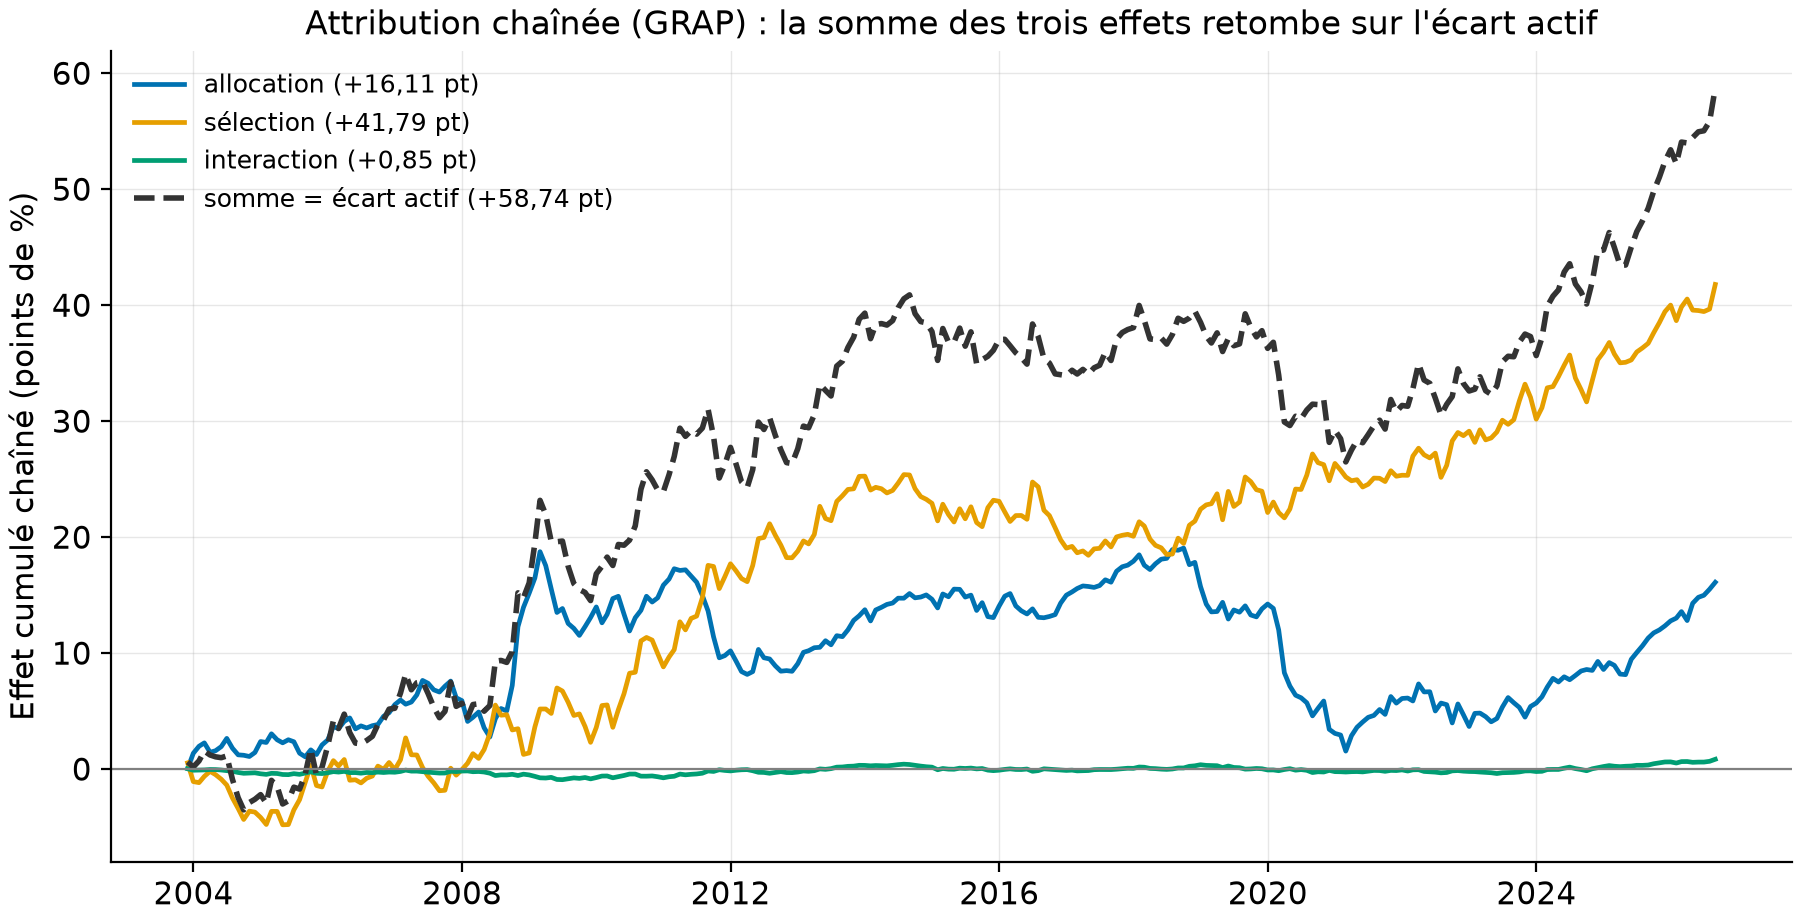
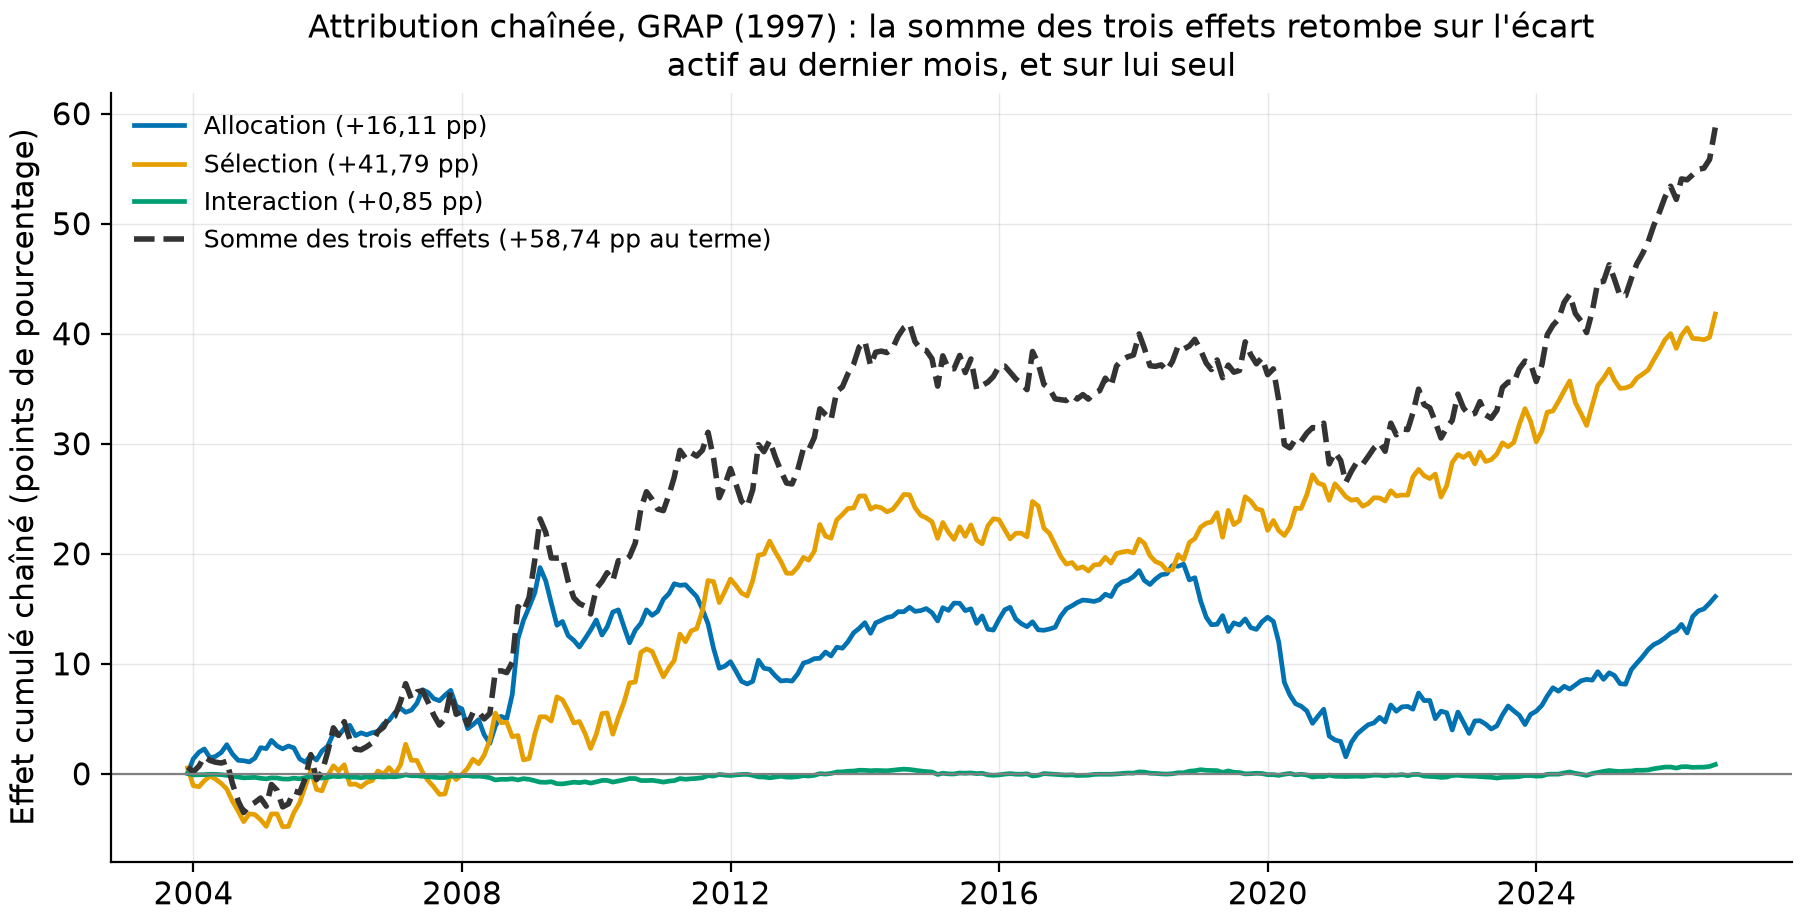
Audit : la figure des quatre chaînages ne montrait rien
Les niveaux montent à 42 points et les écarts à mesurer valent 0,83 point : la figure
trace maintenant l'écart à la moyenne des quatre méthodes, en points de base. L'identité
GRAP = Frongello, le résultat le plus fort du dépôt, y devient visible, et Menchero
apparaît comme la seule méthode qui s'écarte (+55 pb sur l'allocation, -53 sur la
sélection). La légende exposait les clés internes du dictionnaire : chaque chaînage porte
le nom de son auteur et son année.

La somme des trois effets n'égale l'écart actif QU'AU DERNIER MOIS, le coefficient GRAP
du mois i contenant les rendements postérieurs à i : le titre et la légende le disent.
Unités : « points de 100 $ » n'existe pas, « points de % » non plus.

Changed region(s): [[0.0, 0.1217, 0.9956, 0.913], [0.0, 0.0, 0.9022, 0.3957], [0.0, 0.4261, 0.0622, 0.7913]]

diff --git a/src/perf/figures.py b/src/perf/figures.py
@@ -10,6 +10,12 @@ import pandas as pd
 
 OKABE_ITO = ["#0072B2", "#E69F00", "#009E73", "#D55E00", "#CC79A7", "#56B4E9", "#F0E442", "#000000"]
 
+# les clés internes des colonnes ne sont pas des libellés de lecture : chaque chaînage porte le nom
+# de son auteur et l'année de sa publication, comme dans la bibliographie du README
+LABELS_FR = {"allocation": "Allocation", "selection": "Sélection", "interaction": "Interaction"}
+NOMS_CHAINAGES = {"carino": "Cariño (1999)", "menchero": "Menchero (2000)",
+                  "grap": "GRAP (1997)", "frongello": "Frongello (2002)"}
+
 
 def use_style():
     import matplotlib as mpl
@@ -36,14 +42,14 @@ def fig_active(monthly: pd.DataFrame, dest: Path) -> None:
             label=f"Portefeuille tactique ({wp.iloc[-1]:,.0f} $)".replace(",", " "))
     ax.plot(wb.index, wb, color=OKABE_ITO[1],
             label=f"Politique 65/35 ({wb.iloc[-1]:,.0f} $)".replace(",", " "))
-    ax.set_ylabel("Valeur de 100 $")
+    ax.set_ylabel("Valeur (dollars, base 100 au départ)")
     ax.yaxis.set_major_formatter(fr)
     ax.legend(fontsize=9, loc="upper left")
     ax.set_title("Le portefeuille tactique et sa politique : l'écart entre les deux est la matière à attribuer")
-    actif = wp - wb                          # en points de 100 $ : la cible de l'attribution
+    actif = wp - wb                          # deux valeurs en dollars : leur écart l'est aussi
     ax2.plot(actif.index, actif, color=OKABE_ITO[2])
     ax2.axhline(0, color="0.4", linewidth=0.8)
-    ax2.set_ylabel("Écart actif cumulé (points de 100 $)", fontsize=9.5)
+    ax2.set_ylabel("Écart actif cumulé (dollars)", fontsize=9.5)
     ax2.yaxis.set_major_formatter(fr)
     fig.savefig(dest)
     plt.close(fig)
@@ -55,22 +61,21 @@ def fig_linked(linked: pd.DataFrame, actif_cumule: float, methode: str, dest: Pa
     fig, ax = plt.subplots(figsize=(9, 4.6))
     cum = linked[["allocation", "selection", "interaction"]].cumsum() * 100
     for col, color in zip(["allocation", "selection", "interaction"], OKABE_ITO, strict=False):
-        nom = {"selection": "sélection"}.get(col, col)
         ax.plot(cum.index, cum[col], color=color,
-                label=f"{nom} ({cum[col].iloc[-1]:+.2f} pt)".replace(".", ","))
+                label=f"{LABELS_FR[col]} ({cum[col].iloc[-1]:+.2f} pp)".replace(".", ","))
     total = cum.sum(axis=1)
+    # la somme n'égale l'écart actif qu'AU DERNIER POINT : le coefficient GRAP du mois i contient
+    # les rendements du portefeuille et du repère POSTÉRIEURS à i, donc une somme partielle n'est
+    # pas l'attribution arrêtée à cette date
     ax.plot(total.index, total, color="0.2", linewidth=2.0, linestyle="--",
-            label=f"somme = écart actif ({actif_cumule * 100:+.2f} pt)".replace(".", ","))
+            label=f"Somme des trois effets ({actif_cumule * 100:+.2f} pp au terme)".replace(".", ","))
     ax.axhline(0, color="0.5", linewidth=0.8)
-    ax.set_ylabel("Effet cumulé chaîné (points de %)")
+    ax.set_ylabel("Effet cumulé chaîné (points de pourcentage)")
     ax.yaxis.set_major_formatter(fr)
     ax.legend(fontsize=9, loc="best")
-    ax.set_title(f"Attribution chaînée ({methode}) : la somme des trois effets retombe sur l'écart actif")
+    ax.set_title(f"Attribution chaînée, {methode} : la somme des trois effets retombe sur l'écart\nactif au dernier mois, et sur lui seul", fontsize=11.5)
     fig.savefig(dest)
     plt.close(fig)
-
-
-LABELS_FR = {"allocation": "allocation", "selection": "sélection", "interaction": "interaction"}
 
 
 def fig_methods(totaux: pd.DataFrame, actif_cumule: float, dest: Path) -> None:
@@ -79,17 +84,23 @@ def fig_methods(totaux: pd.DataFrame, actif_cumule: float, dest: Path) -> None:
     fig, ax = plt.subplots(figsize=(8.8, 4.4))
     x = np.arange(len(totaux.index))
     width = 0.19
+    # les NIVEAUX (jusqu'à 41,8 points) écrasaient les écarts à mesurer (0,83 point au plus) :
+    # la figure trace donc l'écart de chaque méthode à la moyenne des quatre, en points de base.
+    # Les niveaux restent dans la table du README, où ils sont à leur place.
+    ecart_pb = (totaux.sub(totaux.mean(axis=1), axis=0)) * 1e4
     for i, m in enumerate(totaux.columns):
-        ax.bar(x + (i - 1.5) * width, totaux[m] * 100, width, label=m,
-               color=OKABE_ITO[i])
+        ax.bar(x + (i - 1.5) * width, ecart_pb[m], width,
+               label=NOMS_CHAINAGES.get(m, m), color=OKABE_ITO[i])
     ax.set_xticks(x)
     ax.set_xticklabels([LABELS_FR.get(i_, i_) for i_ in totaux.index])
+    ax.set_xlabel("Effet de Brinson-Fachler")
     ax.axhline(0, color="0.3", linewidth=0.9)
-    ax.set_ylabel("Effet total chaîné (points de %)")
+    ax.set_ylabel("Écart à la moyenne des quatre méthodes\n(points de base)", fontsize=10)
     ax.yaxis.set_major_formatter(fr)
     ax.legend(fontsize=9)
-    spread = float(((totaux.max(axis=1) - totaux.min(axis=1)) * 100).max())
-    ax.set_title(f"Quatre chaînages, une histoire : au plus {spread:.2f} point d'écart "
-                 f"sur un actif cumulé de {actif_cumule * 100:.1f}".replace(".", ","))
+    spread_pb = float(((totaux.max(axis=1) - totaux.min(axis=1)) * 1e4).max())
+    ax.set_title(f"Quatre chaînages, un même verdict : au plus {spread_pb:.0f} points de base d'écart "
+                 f"entre méthodes\nsur un écart actif cumulé de {actif_cumule * 1e4:.0f} points de "
+                 f"base ; GRAP et Frongello se superposent exactement".replace(".", ","), fontsize=11)
     fig.savefig(dest)
     plt.close(fig)

diff --git a/src/perf/cli.py b/src/perf/cli.py
@@ -57,12 +57,12 @@ def attribute(out: Path = Path("results")) -> None:
     spread.round(2).to_csv(tables / "ecart_entre_methodes_pb.csv")
 
     figures.fig_active(monthly, figs / "actif.png")
-    figures.fig_linked(linked["grap"], actif_cum, "GRAP", figs / "attribution_chainee.png")
+    figures.fig_linked(linked["grap"], actif_cum, figures.NOMS_CHAINAGES["grap"], figs / "attribution_chainee.png")
     figures.fig_methods(totaux, actif_cum, figs / "quatre_methodes.png")
 
     typer.echo(f"{len(monthly)} mois ; écart actif cumulé {actif_cum * 100:+.2f} pt ; "
                f"résidu max de réconciliation {max(abs(v) for v in residus.values()):.2e}")
-    typer.echo("totaux chaînés (pt) :")
+    typer.echo("totaux chaînés (points de pourcentage) :")
     typer.echo((totaux * 100).round(3).to_string())
     typer.echo(f"écart max entre méthodes : {float(spread.max()):.1f} pb "
                f"({spread.idxmax()})")

diff --git a/README.md b/README.md
@@ -8,7 +8,7 @@ rendements du GIPS sur l'exemple chiffré officiel du Handbook. *English summary
 ## En bref
 
 1. **Les quatre chaînages racontent la même histoire.** Sur 274 mois d'un portefeuille
-   tactique contre sa politique (+58,74 points d'écart actif cumulé), Cariño, Menchero,
+   tactique contre sa politique (+58,74 points de pourcentage d'écart actif cumulé), Cariño, Menchero,
    GRAP et Frongello attribuent l'allocation entre +16,11 et +16,93 points et la sélection
    entre +41,01 et +41,79 : au plus 0,83 point d'écart entre méthodes, soit 1,4 % du total
    à expliquer. Le choix de la méthode est un choix de présentation, pas de verdict.
@@ -71,7 +71,7 @@ GRAP (1997) capitalise le passé au portefeuille et le futur au benchmark ; Fron
 (2002) par une récursion qui porte l'histoire des effets déjà ajustés. Les formules sont
 recoupées contre l'implémentation de référence R-Finance/PortfolioAttribution (MIT).
 
-| Effet total chaîné (pt) | Cariño | Menchero | GRAP | Frongello |
+| Effet total chaîné (points de pourcentage) | Cariño | Menchero | GRAP | Frongello |
 |---|---|---|---|---|
 | Allocation | +16,38 | +16,93 | +16,11 | +16,11 |
 | Sélection | +41,58 | +41,01 | +41,79 | +41,79 |
@@ -93,9 +93,15 @@ réconcilie (testé).
 
 ![Quatre méthodes](results/figures/quatre_methodes.png)
 
-**Comment lire cette figure.** Une barre par méthode et par effet. Si les quatre barres
-d'un groupe avaient des hauteurs visiblement différentes, le choix de la méthode
-changerait le message au comité ; elles sont presque confondues.
+**Comment lire cette figure.** Une barre par méthode et par effet, non pas en niveau mais
+en ÉCART À LA MOYENNE des quatre méthodes, en points de base. Les niveaux, de 16 à 42
+points de pourcentage, écrasaient des différences qui valent au plus 83 points de base :
+tracés en écart, ils deviennent lisibles, et deux faits sautent aux yeux. Les barres GRAP
+et Frongello sont rigoureusement identiques, ce qui est l'identité redémontrée plus haut ;
+Menchero est la seule méthode qui s'écarte, de +55 points de base sur l'allocation et de
+-53 sur la sélection, l'un compensant l'autre puisque les totaux sont contraints. Sur un
+écart actif cumulé de 5 874 points de base, le choix de la méthode ne change donc pas le
+message au comité.
 
 ![Attribution chaînée](results/figures/attribution_chainee.png)
 
@@ -103,7 +109,11 @@ changerait le message au comité ; elles sont presque confondues.
 sélection (jaune) fait le gros du travail et accélère après 2020 ; l'allocation (bleu)
 donne et reprend (elle perd 17 points entre 2018 et 2021 : surpondérer la classe
 momentum a coûté cher dans les retournements) ; l'interaction reste marginale. La somme
-(tirets) retombe exactement sur l'écart actif de la figure précédente.
+(tirets) retombe exactement sur l'écart actif de la figure précédente AU DERNIER MOIS, et
+sur lui seul : le coefficient GRAP du mois i contient les rendements postérieurs à i, si
+bien qu'une somme partielle n'est pas l'attribution arrêtée à cette date. Lire la courbe
+en tirets comme l'écart actif courant serait une erreur ; c'est la propriété de tous les
+chaînages de la famille dollar.
 
 ## Volet 3 : TWR, Dietz modifié, MWR, validés sur l'exemple officiel
 
